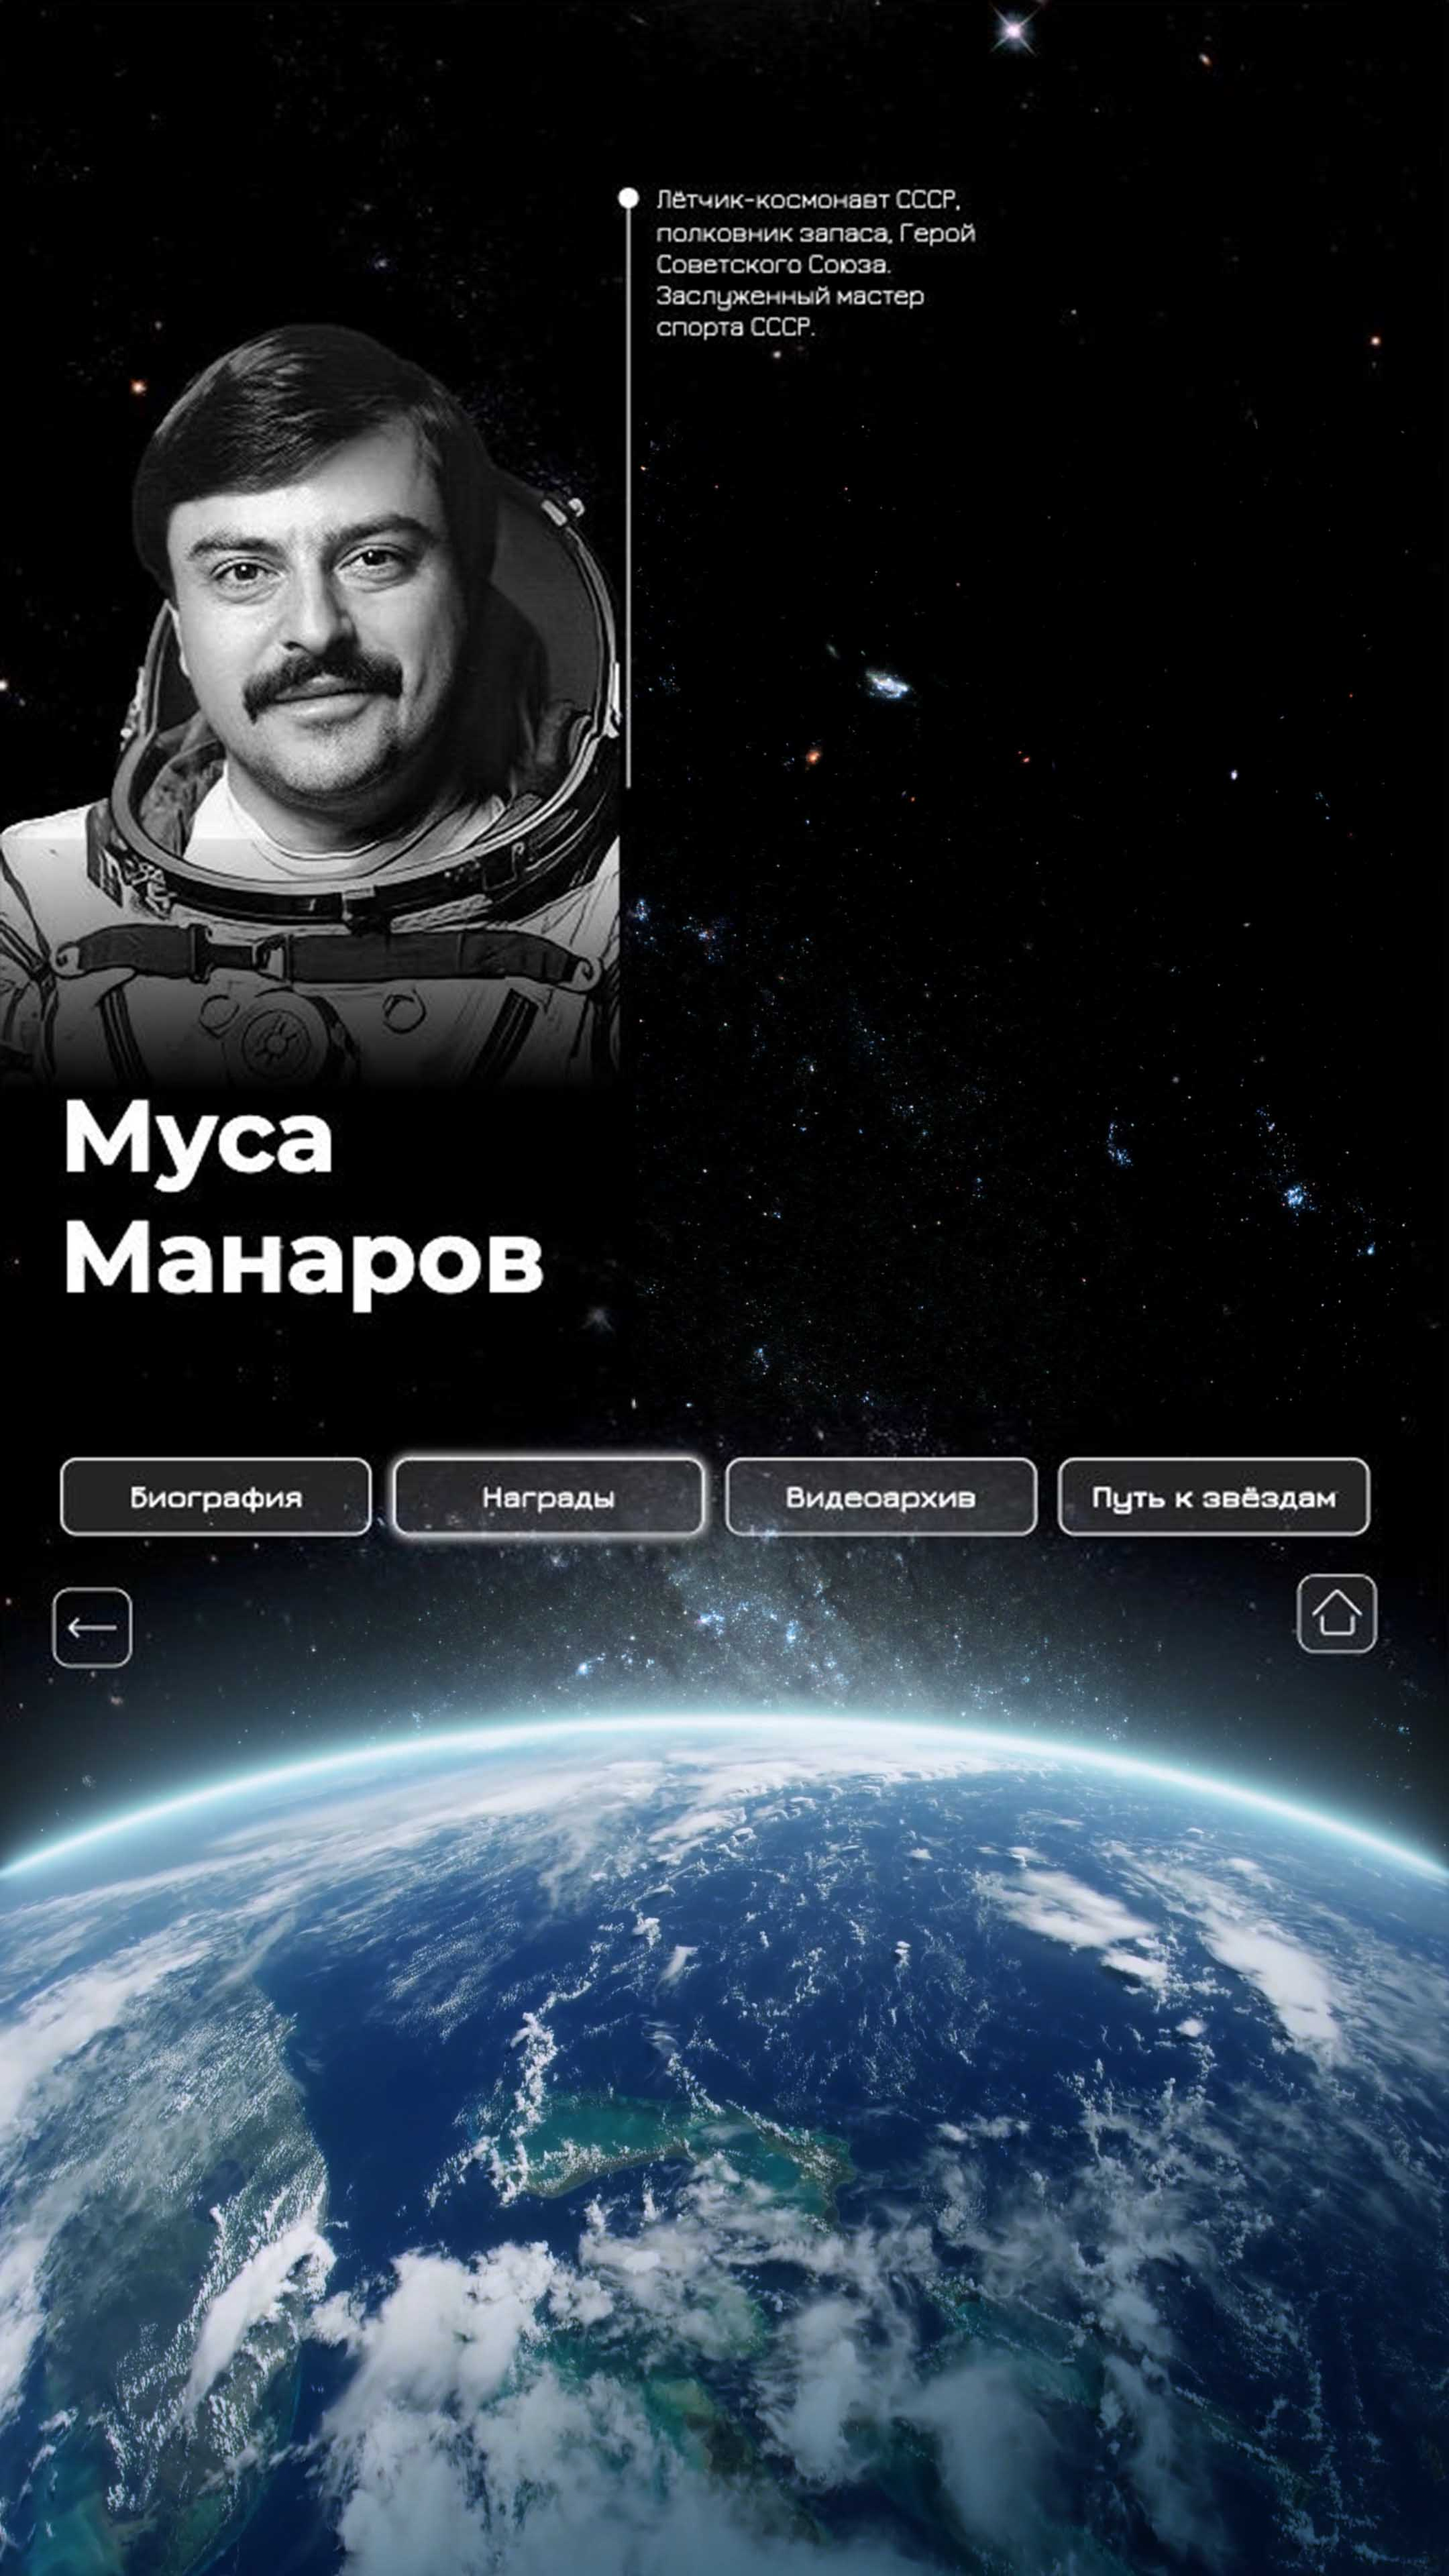
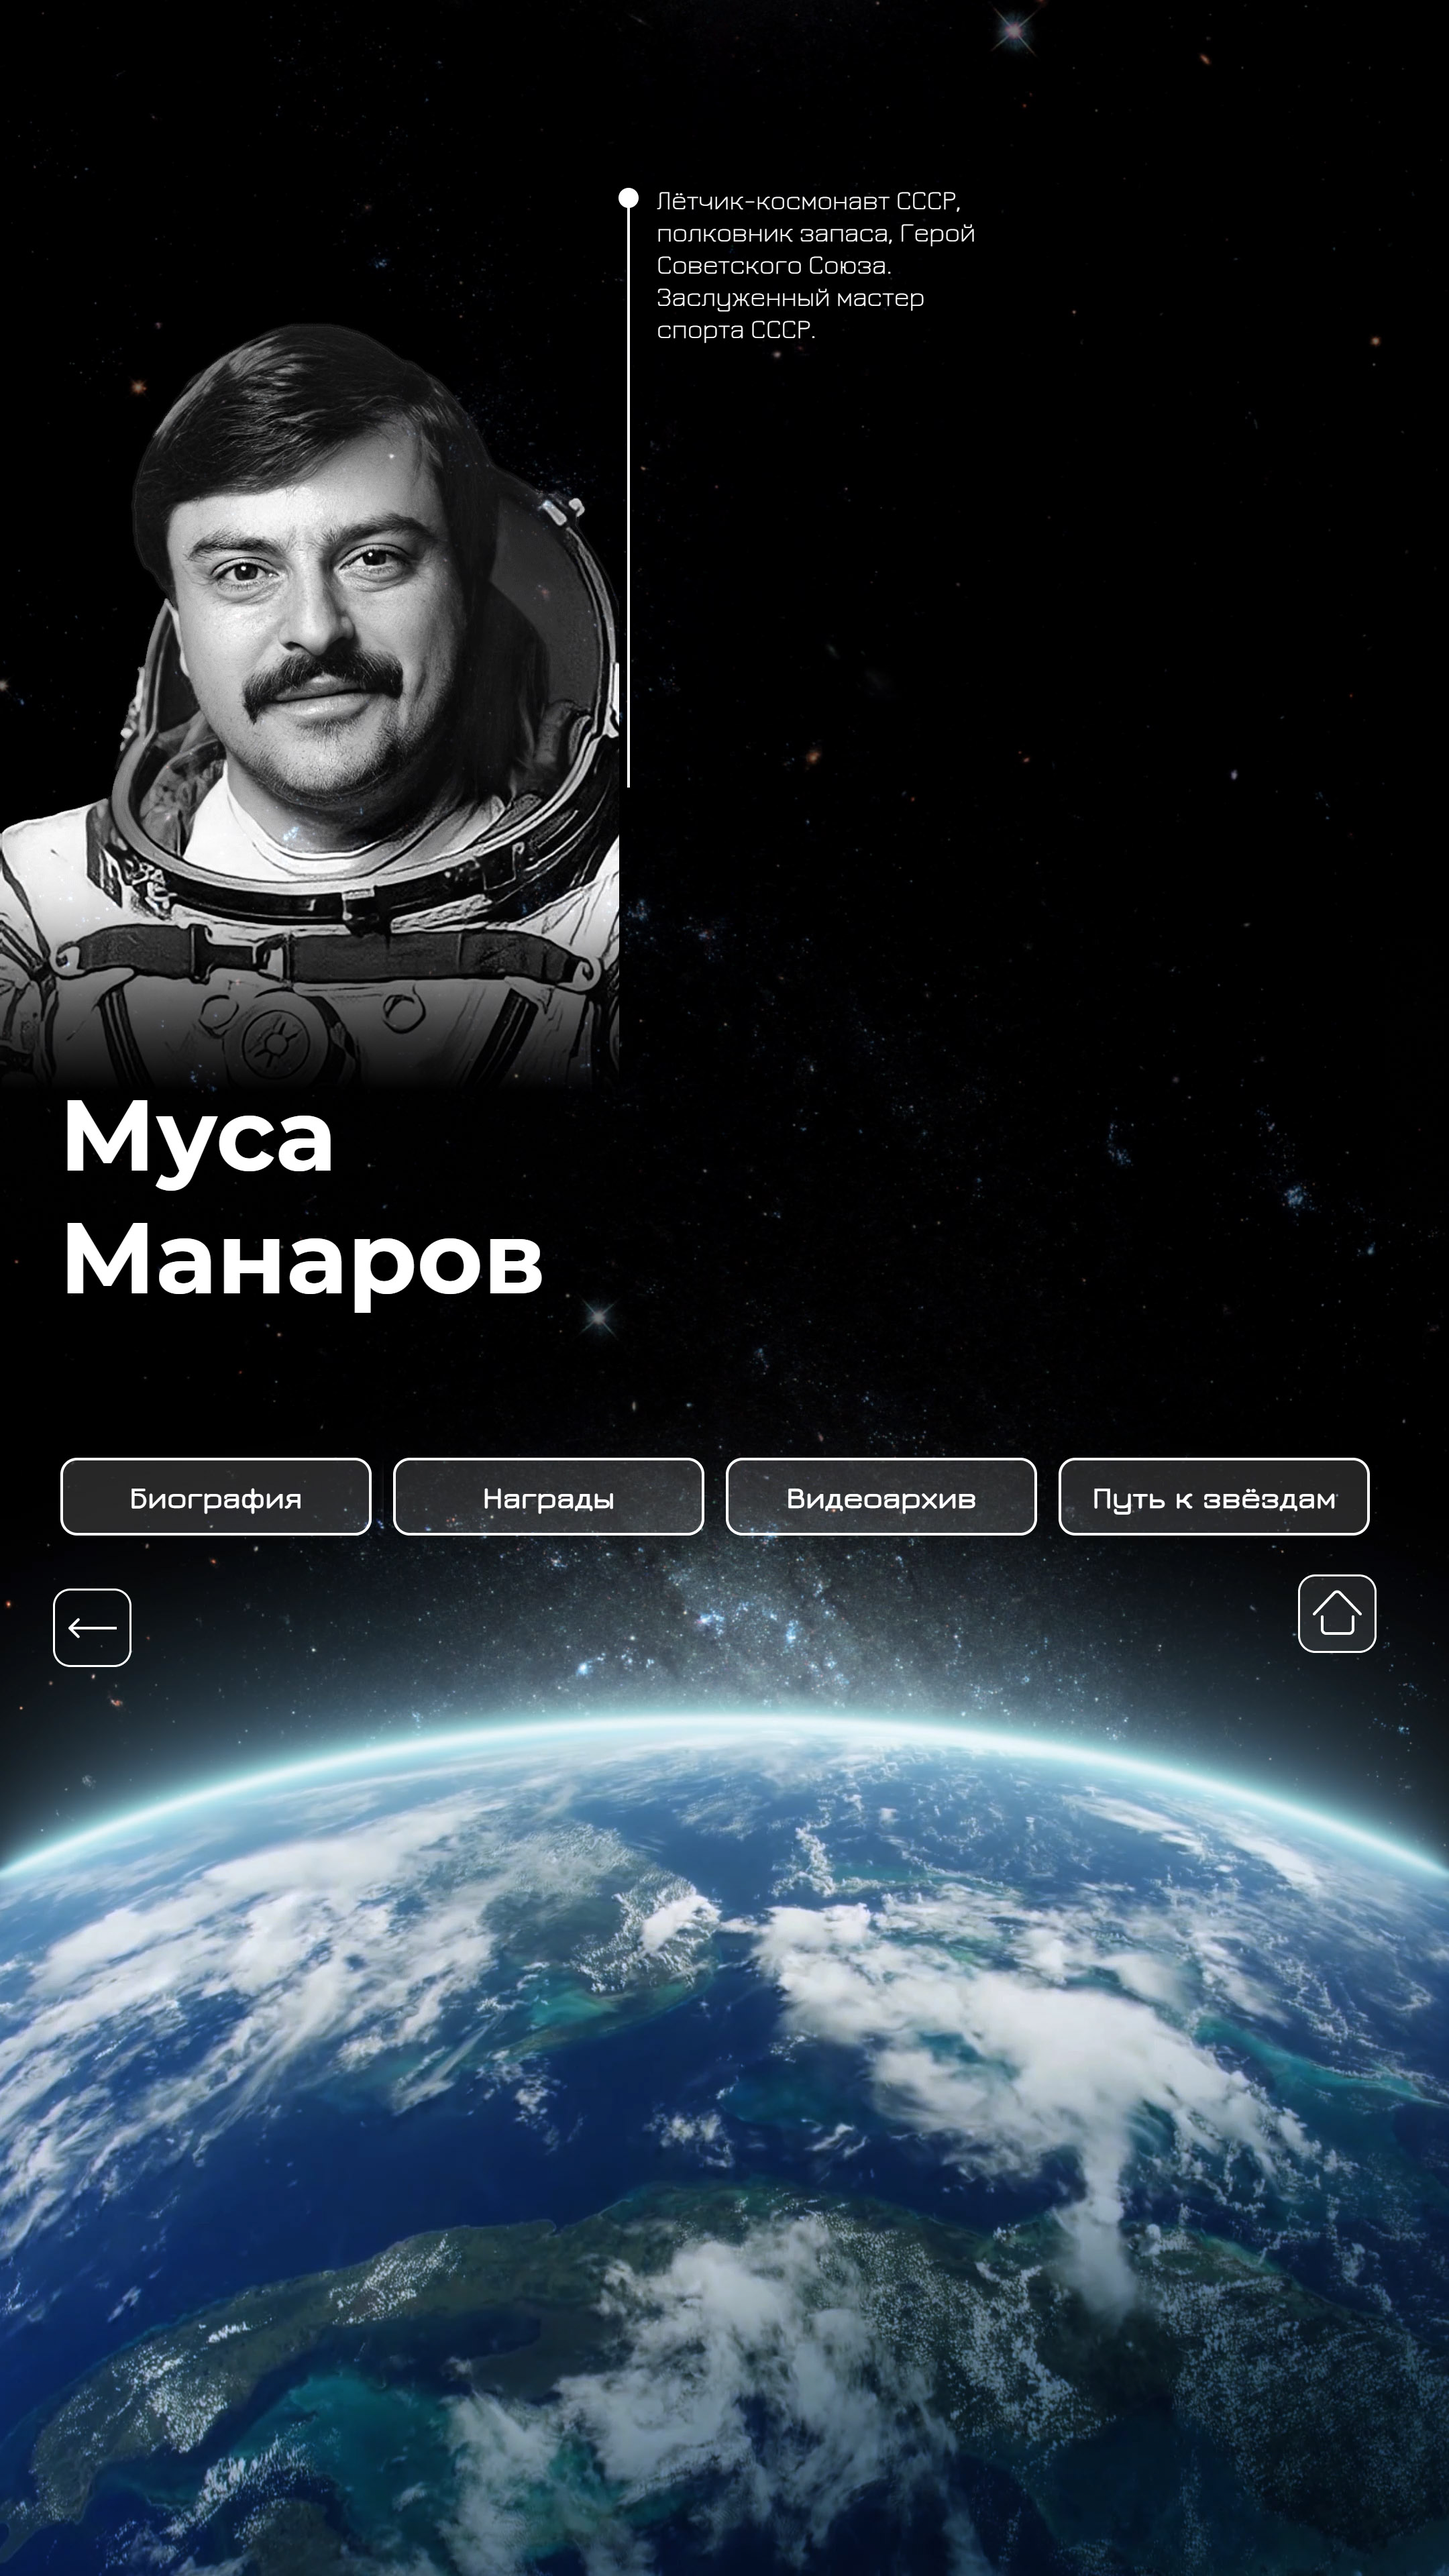
com

diff --git a/css/all.css b/css/all.css
@@ -3,6 +3,11 @@
   padding: 0;
   box-sizing: border-box;
 }
+body, html {
+  margin: 0;
+  padding: 0;
+  overflow: hidden;
+}
 
 @font-face {
   font-family: 'Jura';
